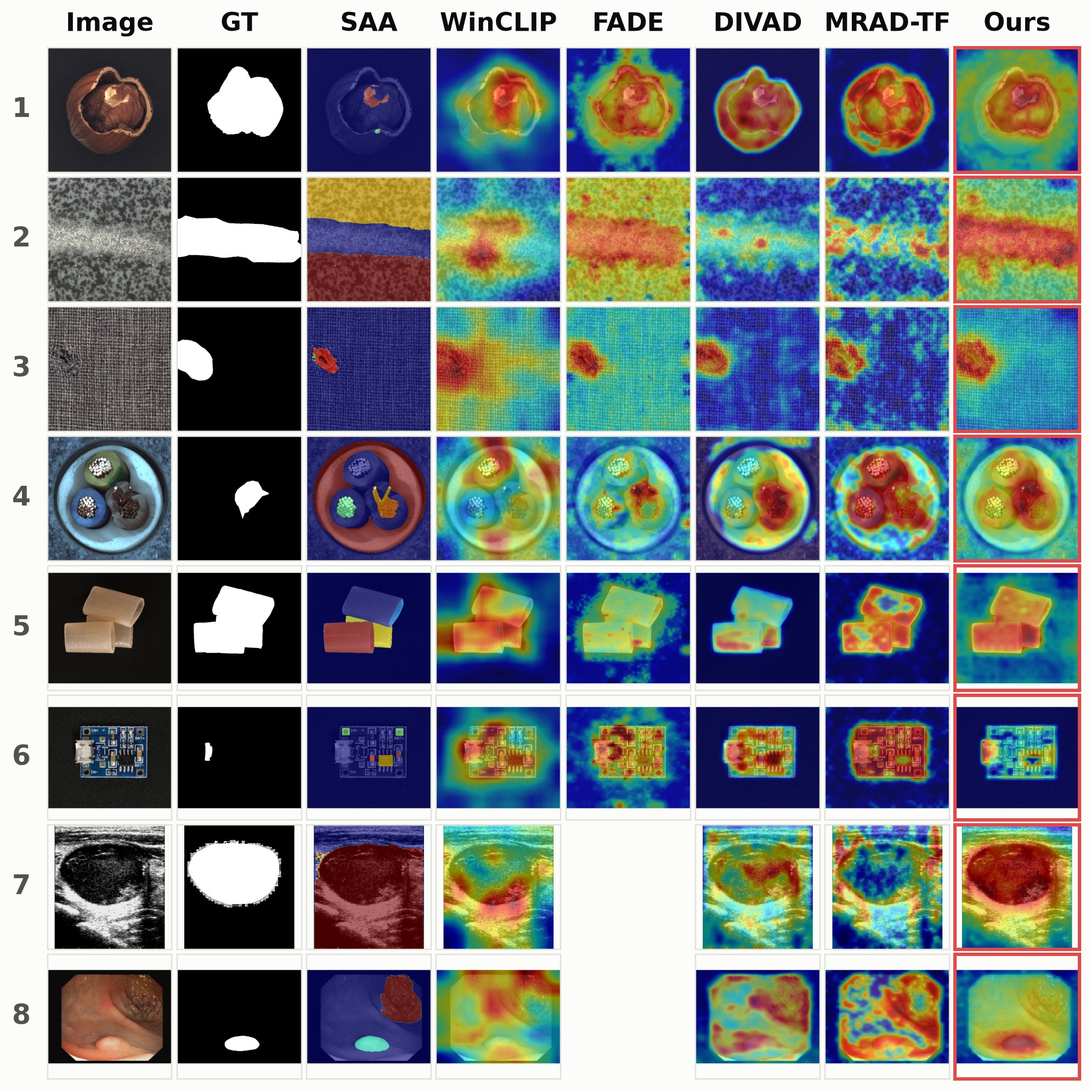
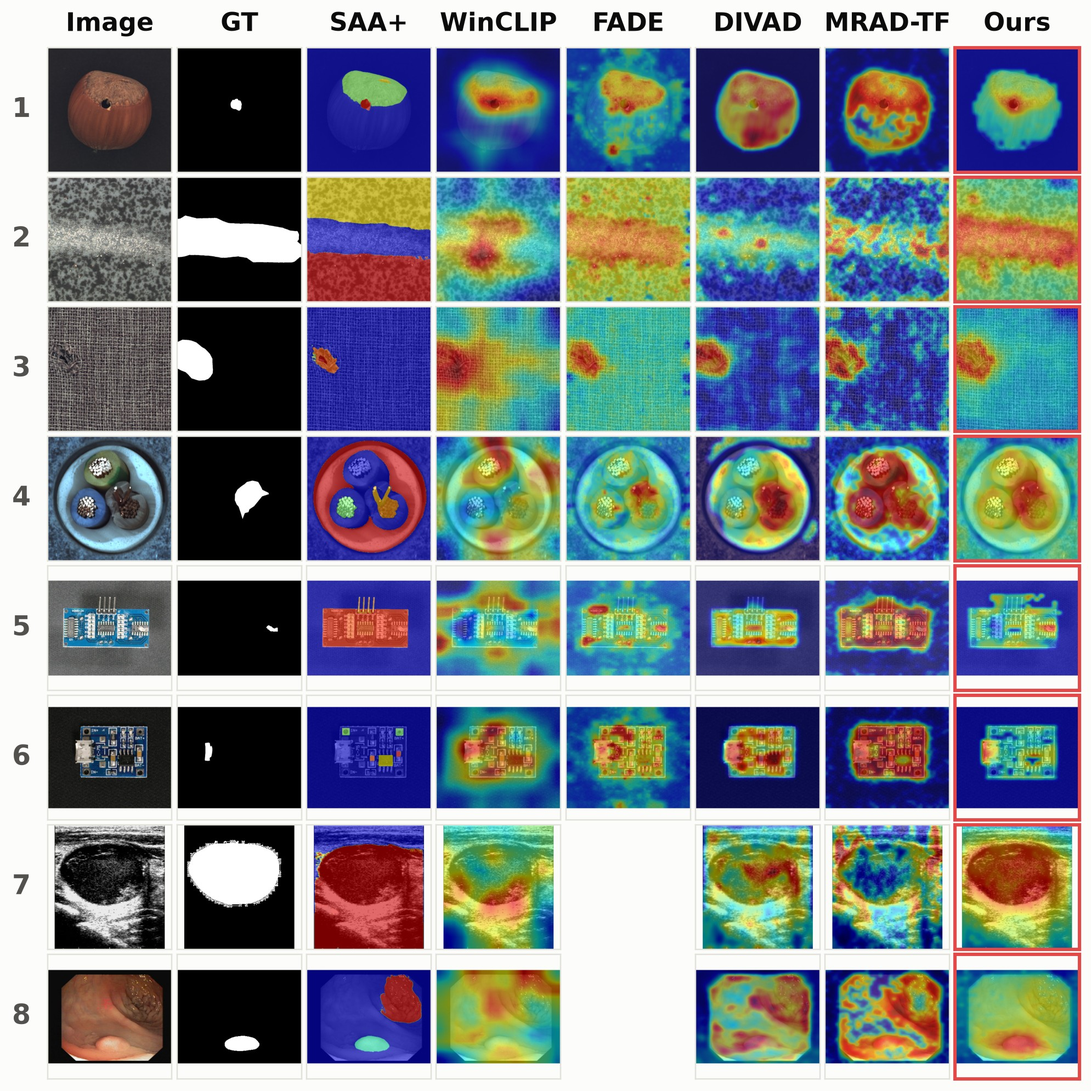
Update README teaser and qualitative figures with the SAA+ baseline

diff --git a/README.md b/README.md
@@ -62,7 +62,7 @@ text anchors, `t_n` and `t_a`. The anomaly margin of an embedding `v` is
 
 All numbers are zero-shot and training-free, in %. Image-level: AUROC / max-F1.
 Pixel-level: AUROC / max-F1 / AUPRO (integrated to 30% FPR). Comparisons with
-CLIP, SAA, WinCLIP, FADE, DIVAD and MRAD-TF are in the paper.
+CLIP, SAA+, WinCLIP, FADE, DIVAD and MRAD-TF are in the paper.
 
 | Domain | Dataset | Image AUROC | Image max-F1 | Pixel AUROC | Pixel max-F1 | AUPRO |
 |---|---|:-:|:-:|:-:|:-:|:-:|
@@ -90,7 +90,7 @@ The full pipeline runs at about 36 ms per image (see the teaser figure for the
 latency of every method).
 
 <p align="center">
-  <img src="assets/qualitative_comparison.jpg" width="90%" alt="Anomaly maps on MVTec AD, VisA and medical images from SAA, WinCLIP, FADE, DIVAD, MRAD-TF and RADIOlogy."/>
+  <img src="assets/qualitative_comparison.jpg" width="90%" alt="Anomaly maps on MVTec AD, VisA and medical images from SAA+, WinCLIP, FADE, DIVAD, MRAD-TF and RADIOlogy."/>
   <br/>
   <em>Anomaly maps from RADIOlogy and the training-free baselines.</em>
 </p>
